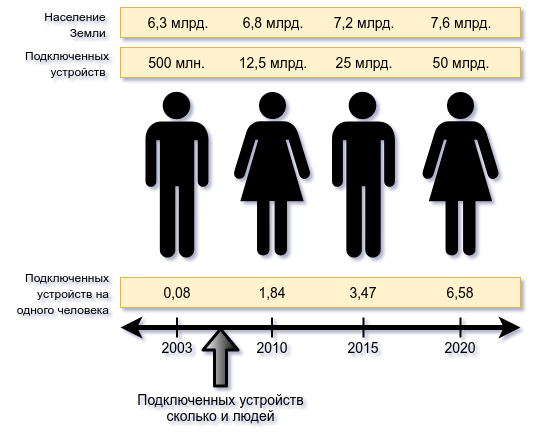
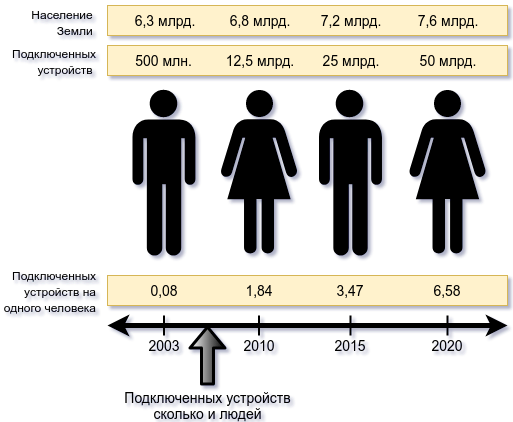
Описана большая часть литературного обзора

Changed region(s): [[0.0, 0.1848, 0.9981, 1.0], [0.0312, 0.0, 0.9981, 0.2156], [0.4366, 0.4621, 0.5926, 0.4929]]

diff --git a/tex/20-analysis.tex b/tex/20-analysis.tex
@@ -17,7 +17,7 @@
 Как известно, большинство великих изобретений человечества потребовали десятки и даже сотни лет на переход от простых по форме представлений до сложных систем.
 От создания предпосылок, до массового внедрения Интернета ушло почти четверть века, однако похоже что для Интернета вещей на то же самое потребуется существенно меньше времени \cite{chernyak2013}.
 Международный союз связи (МСЭ) и Европейский Союз определили Интернету вещей главенствующую роль в дальнейшем развитии отрасли инфокоммуникации. 
-По расчетам консалтингового подразделения Cisco IBSG (см. рис. \ref{fig:iotandpeople}) в промежутке между 2008 и 2009 годами, количество устройств, подключенных к интернету, превысило количество людей, и к 2020 году количество подключенных устройств	достигнет 50 миллиардов\cite{evans2011internet}.
+По расчетам консалтингового подразделения Cisco IBSG (см. рис. \ref{fig:iotandpeople}) в промежутке между 2008 и 2009 годами, количество устройств, подключенных к интернету, превысило количество людей, и к 2020 году количество подключенных устройств достигнет 50 миллиардов\cite{evans2011internet} (по другим данным\cite{denise2014} ""--- 25 миллиардов).
 Таким образом, в настоящее время происходит переход от ``Интернета людей'' к ``Интернету вещей''.
 Хотя данная концепция на международном уровне уже обретает черты сформировавшейся технологии, для неё ведутся активные работы в области стандартизации компонентов, архитектуры и приложений.
 Количество мнений о том как будет построен Интернет вещей очень велико. 
@@ -25,7 +25,7 @@
 
 \begin{figure}
   \centering
-  \includegraphics[width=0.7\textwidth]{inc/img/IoTAndPeople}
+  \includegraphics[width=0.8\textwidth]{inc/img/IoTAndPeople}
 	\caption{Временная шкала изменения количества людей и предметов, подключенных к интернет \cite{evans2011internet}}
   \label{fig:iotandpeople}
 \end{figure}
@@ -50,11 +50,194 @@
 	\item фокус не на человеке, а на вещах;
 \end{itemize}
 
-%%%%%%%%%%%%%%%%%%%%%%%%%%%%%%%%%%%%%%%%%%%%%%%%%%%%%%%%%%%%%%%%%%%%%%%%%%%%%%%%%%%%%%%%%%%%%%%%%%%%%%%%%%%%%%%%
+Концепция сетей следующего поколения NGN предполагала возможность коммуникаций людей в любой точке пространства и времени.
+Концепция интернета вещей включает ещё одно направление ""--- коммуникация любых вещей или устройств (рис. \ref{fig:iotconcept})
 
+\begin{figure}
+  \centering
+  \includegraphics[width=0.8\textwidth]{inc/img/IoTConcept}
+	\caption{Новое направление коммуникаций, реализуемой Интернетом вещей\cite{itutiot2012}}
+  \label{fig:iotconcept}
+\end{figure}
+
+Согласно принятым в МСЭ-Т представлениям о отображении физических и виртуальных вещей, виртуальные вещи могут обходится без их физического соответствия, в то время как каждой физической вещи соответствует минимум один объект в виртуальном пространстве (см. рис. \ref{fig:physvirtworld}).  
+
+Рекомендация Y.2060 от МСЭ-Т описывает различное сочетание способов соединений.
+МСЭ-Т рассматривает множество сетевых технологий, как потенциально пригодных для приложений Интернета вещей, а именно: глобальные сети, локальные сети, ячеистые (mesh) сети и беспроводные самоорганизующиеся (ad-hoc) сети.
+
+\begin{figure}
+  \centering
+  \includegraphics[width=0.9\textwidth]{inc/img/realvirtualthings}
+	\caption{Отображение физических и виртуальных вещей\cite{itutiot2012}}
+  \label{fig:physvirtworld}
+\end{figure}
+
+\subsection{Основные характеристики Интернета вещей}
+
+IoT, имеет следующие характеристики:
+
+\begin{itemize}
+	\item возможность установления соединений. Любую вещь можно соединить к Интернету вещей;
+	\item гетерогенность: устройства в концепции Интернета вещей являются гетерогенными и базируются на различных аппаратных платформах и сетях. 
+		Могут обмениваться информацией с другими устройствами, независимо от структуры сети и применяемых технологий транспортного уровня. 
+		Примечательно, что современное состояние сети Интернет может удовлетворить этому лишь отчасти: пул адресов IPv4 исчерпан и большая часть устройств скрывается в локальных сетях за устройствами NAT, что противоречит изначальной концепции однородного интернета. 
+		Решением может стать повсеместное использование протокола IPv6 в качестве протокола сетевого уровня. 
+		Хотя внедрение этого протокола и затянулось, но уже к декабрю 2018 года ожидается, что 25\% всех Интернет доменов будет доступно через этот протокол\cite{pickard2017}.;
+	\item огромное количество, одновременно подключенных, устройств к сети, которыми необходимо управлять, обмениваться данными. Произойдёт существенное увеличение долей обмена данными, инициированными устройствами, по сравнению с долей информационного обмена, инициированного людьми;
+	\item динамические изменения структуры сети. Устройства будут свободно подключаться к сетям, менять своё местоположение, отключаться от сети и подключаться к новым устройствам. Подразумевается, что количество устройств в одной сети - переменная величина с течением времени;
+\end{itemize}
+
+Важной частью рекомендации от МСЭ-Т являются требования	предъявляемые к устройствам IoT. Любые технологии LPWAN, в том числе и LoRa, должны соответствовать этим требованиям для предоставления возможности их включения в инфраструктуру Интернета вещей:
+
+\begin{itemize}
+	\item предоставление автономных услуг: требуется что бы услуги могли предоставляться с помощью автоматической передачи, обработки и сбора данных вещей, основанных на правилах, задаваемых операторами или абонентами. Услуги могут зависеть от методов автоматизированной обработки и интеллектуального анализа данных;
+	\item соединение на основе идентификатора: соединение с любой вещью в концепции Интернета вещей будет происходить на основе уникального идентификатора, которым обладает тот или иной объект. Отсюда выходит требование о создании универсального идентификатора (например адрес IPv6) для применения в гетерогенных сетях.
+	\item функциональная совместимость: требуется обеспечение функциональной совместимости гетерогенных и распределенных систем в целях предоставления и потребления самый разных видов услуг;
+	\item  возможности определения местоположения: требуется что бы в Интернете вещей обеспечивались услуги, на основе информации о местоположении объекта. Требуется что бы информация о местоположении вещей отслеживалась автоматически. Связь и услуги на основе местоположения могут быть ограничены законами и нормативными актами и должны соответствовать требованиям безопасности;
+	\item безопасность в Интернете вещей: каждая вещь имеет соединение с сетью, что приводит к серьёзной угрозе безопасности, таким как угроза аутентичности, целостности и конфиденциальности как данных, так и услуг. Одним и важнейших требования к безопасности является необходимость объединения различных методов и принципов обеспечения безопасности множества устройств и сетей пользователей;
+	\item защита неприкосновенности частной жизни: требуется, чтобы в IoT обеспечивалась неприкосновенность частной жизни. У многих вещей есть владельцы и эти вещи могут хранить личную информацию их владельцев. Необходимо обеспечить неприкосновенность частной жизни человека при сборе, обработке, анализе и передачи больших массивов информации вещами. Защита неприкосновенности частной жизни не должна служить препятствием для аутентификации источника данных;
+	\item автоматическое конфигурирование: необходимо обеспечить возможность автоматического конфигурирования устройств, для возможности оперативной модификации программного обеспечения вещей, с целю повысить качество обслуживания клиентов, а также степень интеграции устройства с окружающим миром и сетью, не нарушая при этом, требования о безопасности и конфиденциальности.
+	\item управляемость: возможность вмешательства человека в работу вещей при необходимости.
+\end{itemize}
+
+\subsection{Эталонная модель Интернета вещей}
+
+Также была разработана эталонная модель интернета вещей, она показана на рисунке \ref{fig:iotetalon}.
+Она включает в себя четыре уровня, а также возможности обеспечения безопасности и управления, которые связаны с этими четырьмя уровнями:
+
+\begin{itemize}
+	\item уровень приложения;
+	\item уровень поддержки услуг и поддержки приложения;
+	\item уровень сети;
+	\item уровень устройства.
+\end{itemize}
+
+\begin{figure}
+  \centering
+  \includegraphics[width=\textwidth]{inc/img/iotetalon}
+	\caption{Эталонная модель IoT\cite{itutiot2012}}
+  \label{fig:iotetalon}
+\end{figure}
+
+\subsubsection{Уровень приложения}
+
+Содержит само приложение IoT.
+
+\subsubsection{Уровень поддержки услуг и поддержки приложений}
+
+Данный уровень состоит из следующих двух групп возможностей:
+
+\begin{itemize}
+	\item общие возможности поддержки, или типовые возможности, которые могут использоваться приложениями Интернета вещей, такими как хранение или обработка данных.
+	\item специализированные возможности поддержки или набор конкретных возможностей, предназначенных для удовлетворения требований разнообразных приложений.
+\end{itemize}
+
+\subsubsection{Уровень сети}
+
+Существует два типа возможностей:
+
+\begin{itemize}
+	\item возможности организации сетей: предоставляет функции управления сетевыми соединениями;
+	\item возможности транспортировки: предназначены для предоставления соединений для транспортировки информации в виде данных, относящихся к услугам и приложениям IoT, а также транспортировки информации управления и контроля, относящейся к IoT.
+\end{itemize}
+
+\subsubsection{Уровень устройства}
+
+Этот уровень можно логически разделить на два вида возможностей:
+\begin{itemize}
+	\item возможности устройства. Это могут быть такие возможности, как: спящий режим и пробуждение, организация специальных сетей, прямое и непрямое взаимодействие устройства с сетью;
+	\item возможности шлюза. Это возможность поддержки различных интерфейсов. Шлюза объединяют в себе различные сетевые интерфейсы, как проводные, так и беспроводные.
+\end{itemize}
+
+\subsubsection{Возможности управления}
+
+Возможности управления IoT охватывают традиционные классы конфигурации, учета, безопасности и т.д.
+
+Важнейшие возможности управления включают:
+\begin{itemize}
+	\item управление устройствами, диагностика, обновление, прошивка, управление рабочим состоянием устройства;
+	\item управление топологией локальной сети;
+	\item управление трафиком и перегрузками.
+\end{itemize}
+
+\subsubsection{Возможности обеспечения безопасности}
+
+Есть два вида возможностей обеспечения безопасности: общие и специализированные.
+Общие возможности не зависят от приложений и включают:
+\begin{itemize}
+	\item на уровне приложений: авторизацию, конфиденциальность, аутентификацию, целостность данных приложения, защиту неприкосновенности частной жизни, аудит безопасности;
+	\item на уровне сети: авторизацию, аутентификацию, защиту конфиденциальности и целостности;
+	\item на уровне устройства: аутентификацию, авторизацию, проверку целостности устройства, управление доступом, защиту целостности и конфиденциальности.
+\end{itemize}
+
+Специализированные возможности зависят от вида приложений и могут налагать дополнительные специфичные требования по безопасности.
+
+%%%%%%%%%%%%%%%%%%%%%%%%%%%%%%%%%%%%%%%%%%%%%%%%%%%%%%%%%%%%%%%%%%%%%%%%%%%%%%%%%%%%%%%%%%%%%%%%%%%%%%%%%%%%%%%%
+\newpage
 \section{Обзор технологии LoRa} 
 
-Здесь я обозреваю технологию...
+В данном разделе будет дан обзор на технологию LoRa от компании Semtech.
+Будет кратко рассмотрены физический и уровень управления доступом к сети (MAC) LoRaWAN сетей.
+
+\subsection{Стек протоколов LoRa}
+
+\subsubsection{Физический уровень}
+
+LoRa представляет собой технологию энергоэффективной сети дальнего радиуса действия, разрабатываемый организацией LoRa Alliance.
+Данная технология нацелена на использование в устройствах с автономными источниками питания, где показатель энергопотребления является наиболее важным.
+Технология LoRa описывает два независимых уровня протоколов: физический, с использование линейной частотной модуляцией (CSS); и протокол контроля доступа к среде (LoRaWAN), хотя системы коммуникации LoRa также реализуют специфичные сетевые архитектуры\cite{augustin2016}.
+
+Физический уровень LoRa разработан компанией Semtech и он обеспечивает связь с низким энергопотреблением, низкой скоростью и большим радиусом действия.
+
+\paragraph{Доступные частотные диапазоны} \hspace{0pt}\\
+
+Физический уровень LoRa работает в различных субгигагерцовых частотных ISM диапазонах.
+В различных странах приняты различные диапазоны частот, поэтому устройствам с LoRa необходимо самостоятельно выбирать используемый радиодиапазон для физического уровня, в зависимости от принятых местных соглашениях. 
+Таблица \ref{tab:ismbands} описывает, принятые в различных странах, частотные диапазоны для строительства сетей связи.
+
+\begin{table}[ht]
+  \caption{Частотные диапазоны, принятые в разных странах}
+  \begin{tabular}{|l|c|}
+  \hline
+	  Частотный диапазон & Страна\\
+  \hline
+	  EU 863-870 МГц ISM & Европейский союз\\
+  \hline
+	  EU 433 МГц ISM & Европейский союз\\
+  \hline
+	  RU 864-870 МГц ISM & Российская Федерация\\
+  \hline
+	  US 902-928 МГц ISM & США\\
+  \hline
+	  CH 779-787 МГц ISM & КНР\\
+  \hline
+  \end{tabular}
+  \label{tab:ismbands}
+\end{table}
+
+В 2017 году был утвержден частотный план LoRa Alliance, в котором определены единые региональные параметры LoRaWAN, используемые на территории РФ.
+Согласно этому плану, для РФ выделяется частотный диапазон шириной в 6 МГц, с максимальной шириной полосы частот в 125 кГц.
+При этом для конечных устройств \textbf{обязательна} поддержка двух каналов с несущими 868,9 и 869,1 МГц/ DR0 до DR5 (см. таблицу \ref{tab:rudefchannels}).
+
+% TODO: Про доступные частотные диапазоны можно написать больше
+
+\begin{table}[ht]
+  \caption{Стандартные каналы частотного диапазона RU864-870}
+\begin{tabular}{|l|l|l|l|l|l|}
+\hline
+	Модуляция & \begin{tabular}[c]{@{}l@{}}Ширина \\ полосы\\ частот \\ {[}кГц{]}\end{tabular} & \begin{tabular}[c]{@{}l@{}}Несущая\\ {[}МГц{]}\end{tabular}& \begin{tabular}[c]{@{}l@{}}Пропускная\\ способность\\ FSK или \\ LoRa DR\end{tabular}& \begin{tabular}[c]{@{}l@{}}Кол-во\\ каналов\end{tabular} & \begin{tabular}[c]{@{}l@{}}Рабочий\\ цикл\end{tabular} \\ \hline
+	\multicolumn{1}{|c|}{LoRa} & \multicolumn{1}{c|}{125}& \multicolumn{1}{c|}{\begin{tabular}[c]{@{}c@{}}868,9\\ 869,1\end{tabular}} & \multicolumn{1}{c|}{\begin{tabular}[c]{@{}c@{}}DR0 до DR5 \\ / 0,3-5 Кбит/c\end{tabular}} & \multicolumn{1}{c|}{2}& \multicolumn{1}{c|}{\textless 1\%}\\ \hline
+\end{tabular}
+  \label{tab:rudefchannels}
+\end{table}
+
+
+\paragraph{Радиопомехи} \hspace{0pt}\\
+
+Поскольу в РФ LoRa испольует нелицензируемый диапазон частот, то строящиеся сети будут работать в условиях внешних помех, создаваемыми прочими пользователями диапазона, включая коммерческие и частные сети Интернета вещей, работающих по технологиям LoRa, NB-Fi, ``СТРИЖ Телематика'' и пр.
+
+%Размер полезных данных может изменятся в диапазоне от 2 до 255 октетов, а скорость передачи данных может достигать до 50 Кбит/c. 
+%Технология модуляции закрыта и является собственностью компании Semtech.
 
 %%%%%%%%%%%%%%%%%%%%%%%%%%%%%%%%%%%%%%%%%%%%%%%%%%%%%%%%%%%%%%%%%%%%%%%%%%%%%%%%%%%%%%%%%%%%%%%%%%%%%%%%%%%%%%%%
 

diff --git a/tex/11-intro.tex b/tex/11-intro.tex
@@ -10,15 +10,21 @@
 
 
 \begin{itemize}
-	\item изучить возможные применения технологии в контексте развития Интернета Вещей;
+	\item изучить возможные применения технологии в контексте развития Интернета вещей;
 	\item сравнить открытый стандарт LoRaWAN с другими технологиями беспроводной передачи данных, таких как SigFox, LTE, Стриж и т.д;
 	\item оценить характеристики энергопотребления и зону покрытия в городской среде для радиоприёмника LoRa SX1278 в разных режимах работы;
 	\item создать и задокументировать программное обеспечение для работы с SX1278 в связке с STM32L476, используя инструменты открытого программного обеспечения.
 \end{itemize}
 
-\Abbrev{LTE}{LTE, Long Term Evolution ""--- долгосрочное развитие}
+\Abbrev{LPWAN}{Low-power Wide-aread Network ""--- энергоэффективная сеть дальнего радиуса действия}
+\Abbrev{CSS}{Chirp spread spectrum ""--- линейная частотная модуляция}
+\Abbrev{ISM}{industrial, scientific and medical radio bands""--- международные зарезервированные частотные дипазоны}
 \Abbrev{NGN}{Next Generation Network ""--- сеть последующих поколений}
 \Abbrev{IoT}{с англ. \textit{Internet of Things} в переводе ""--- \textit{``Интернет вещей''}} 
-\Abbrev{API}{application programming interface ""--- внешний интерфейс взаимодействия с приложением}
-\Define{Интернет}{глобальная вычислительная сеть. Является самой большой компьютерной сетью в мире. Построена на базе стека протоколов TCP/IP.}
+\Abbrev{LTE}{Long Term Evolution ""--- долгосрочное развитие}
+%\Abbrev{API}{Application Programming Interface ""--- внешний интерфейс взаимодействия с приложением}
+
+\Define{Интернет}{глобальная вычислительная сеть. Является самой большой компьютерной сетью в мире. Построена на базе стека протоколов TCP/IP}
 \Define{Сетевой протокол}{соглашение о наборе правил, повзоляющих проводить соединение и обмен данными между двумя и более устройствами, подключенным к сети}
+\Define{Сеть последующих поколений (СПП) (Next generation network)}{Сеть с пакетной коммутацией, пригодная для предоставления услуг электросвязи и для использования нескольких широкополосных технологий транспортировки с ключенной функцией QoS, в который связанные с обслуживанием функции не зависят от примененных технологий, обепечивающих транспортировку}
+

diff --git a/tex/rpz.tex b/tex/rpz.tex
@@ -17,14 +17,14 @@
 \include{macros.inc}
 
 % Стиль титульного листа и заголовки
-\include{00-title}
+%\include{00-title}
 
 
 \begin{document}
 
 \frontmatter % выключает нумерацию ВСЕГО; здесь начинаются ненумерованные главы: реферат, введение, глоссарий, сокращения и прочее.
 
-\maketitle %создает титульную страницу
+%\maketitle %создает титульную страницу
 
 
 %\begin{executors}

diff --git a/tex/40-impl.tex b/tex/40-impl.tex
@@ -1,4 +1,4 @@
-\chapter{практическая часть}
+\chapter{Практическая часть}
 \label{cha:pract}
 
 \begin{listing}[H]
